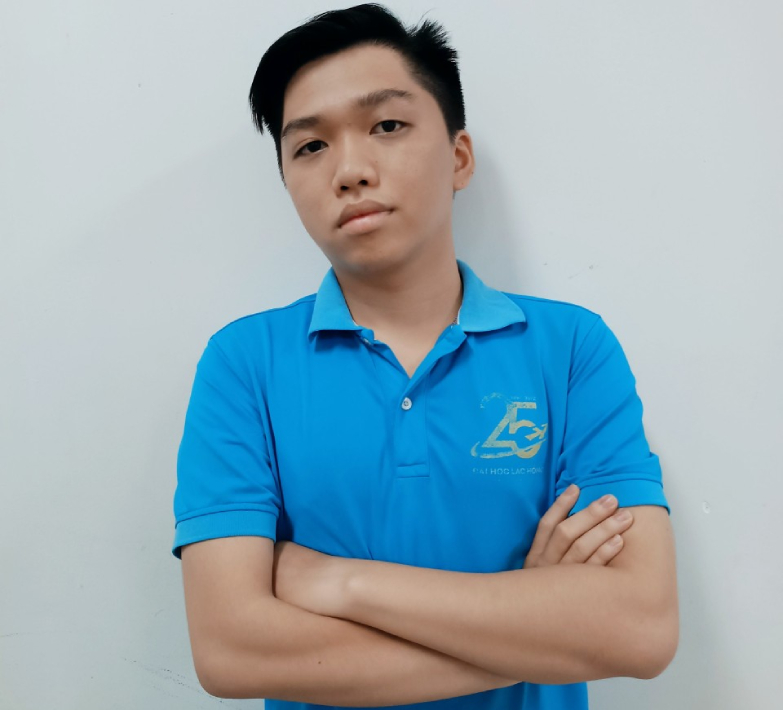
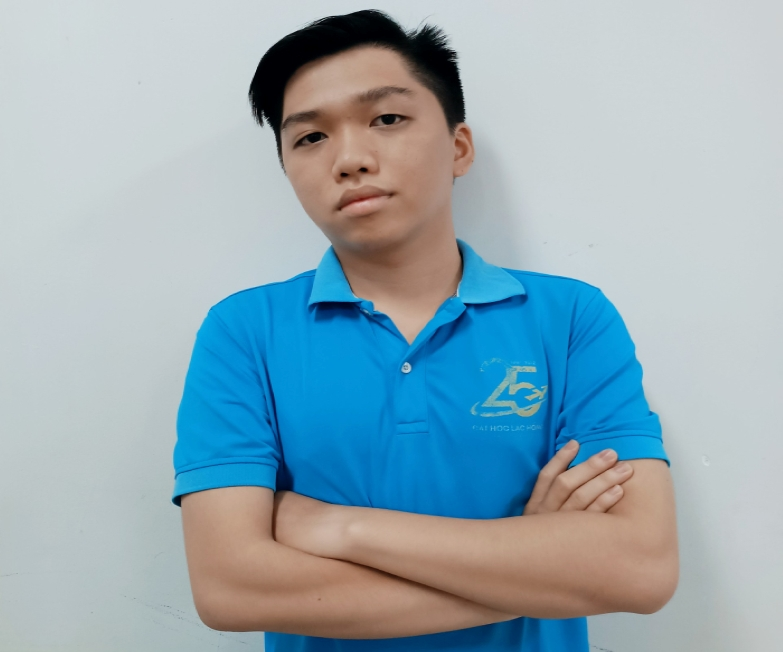
Change contributor image style back to normal

diff --git a/index.html b/index.html
@@ -204,7 +204,7 @@
                   <!-- contributor image -->
                   <div class="contributor-card-image">
                       <div class="contributor-event-image">
-                          <img src="images/lợi.jpg" alt="" class="rounded-circle">
+                          <img src="images/lợi.jpg" alt="">
                       </div>
                   </div>
                   <div class="contributor-card-content">
@@ -226,7 +226,7 @@
                 <!-- contributor image -->
                 <div class="contributor-card-image">
                     <div class="contributor-event-image">
-                        <img src="images/Vỹ.jpg" alt="" class="rounded-circle">
+                        <img src="images/Vỹ.jpg" alt="">
                     </div>
                 </div>
                 <div class="contributor-card-content">
@@ -248,7 +248,7 @@
               <!-- contributor image -->
               <div class="contributor-card-image">
                   <div class="contributor-event-image">
-                      <img src="images/Quang.jpg" alt="" class="rounded-circle">
+                      <img src="images/Quang.jpg" alt="">
                   </div>
               </div>
               <div class="contributor-card-content">
@@ -270,7 +270,7 @@
             <!-- contributor image -->
             <div class="contributor-card-image">
                 <div class="contributor-event-image">
-                    <img src="images/Toan.jpg" alt="" class="rounded-circle">
+                    <img src="images/Toan.jpg" alt="">
                 </div>
             </div>
             <div class="contributor-card-content">
@@ -292,7 +292,7 @@
           <!-- contributor image -->
           <div class="contributor-card-image">
               <div class="contributor-event-image">
-                  <img src="images/Hieu.jpeg" alt="" class="rounded-circle">
+                  <img src="images/Hieu.jpeg" alt="">
               </div>
           </div>
           <div class="contributor-card-content">

diff --git a/css/style.css b/css/style.css
@@ -114,7 +114,7 @@ a {
     background-color: white;
     border-bottom-left-radius: 10px;
     border-bottom-right-radius: 10px;
-    padding-top: 100px;
+    padding-top: 20px;
 }
 
 .contributor-heading-text h1{
@@ -132,20 +132,21 @@ a {
 
 .contributor-event-image{
     width: 100%;
-    height: 150px;
+    height: auto;
     display: flex;
     justify-content: center;
     align-items: center;
-    background-color: #4f99e5;
+    /* background-color: #4f99e5; */
     border-top-left-radius: 10px;
     border-top-right-radius: 10px;
 }
 
 .contributor-event-image img{
-    width: 50%;
+    width: 100%;
     height: auto;
-    border: 5px solid #4f99e5;
-    margin-top: 100px;
+    border-top-left-radius: 10px;
+    border-top-right-radius: 10px;
+    /* margin-top: 100px; */
 }
 
 
